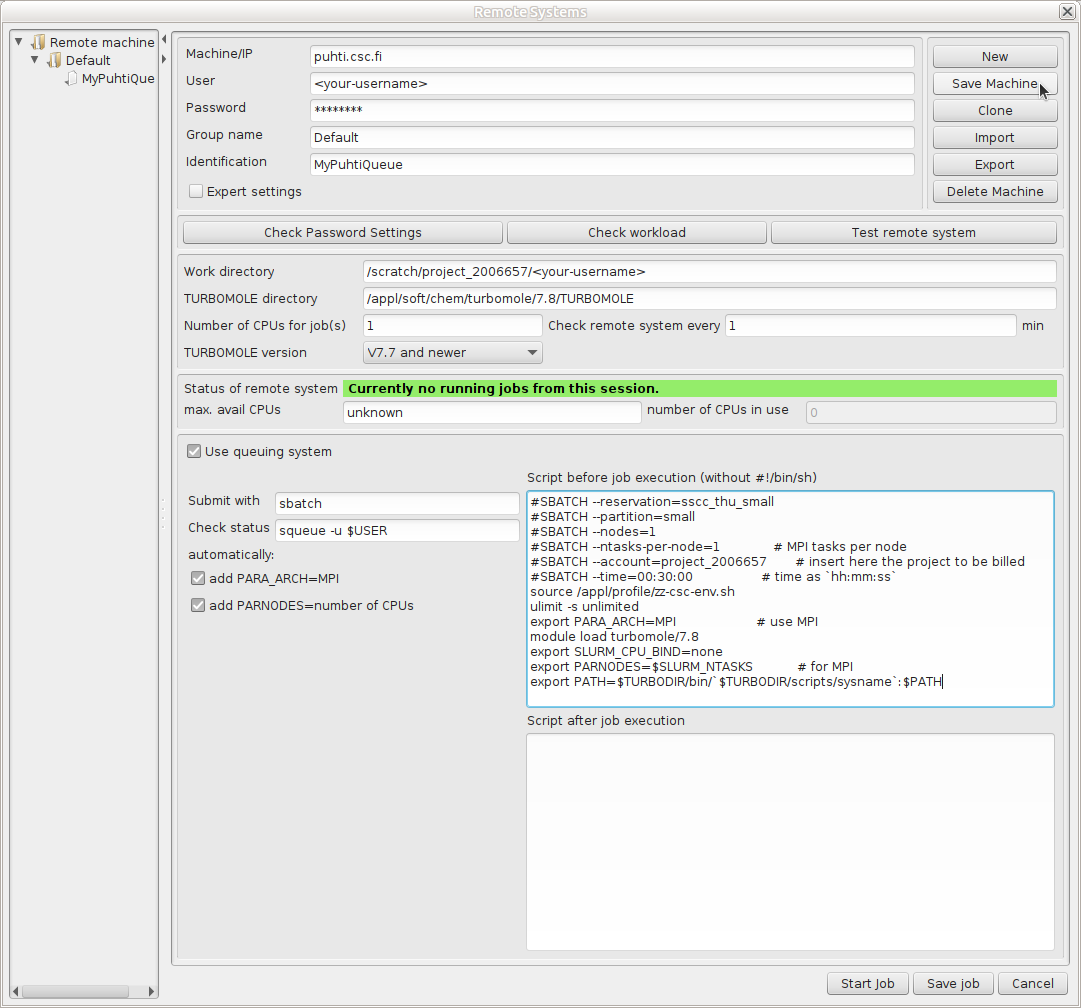
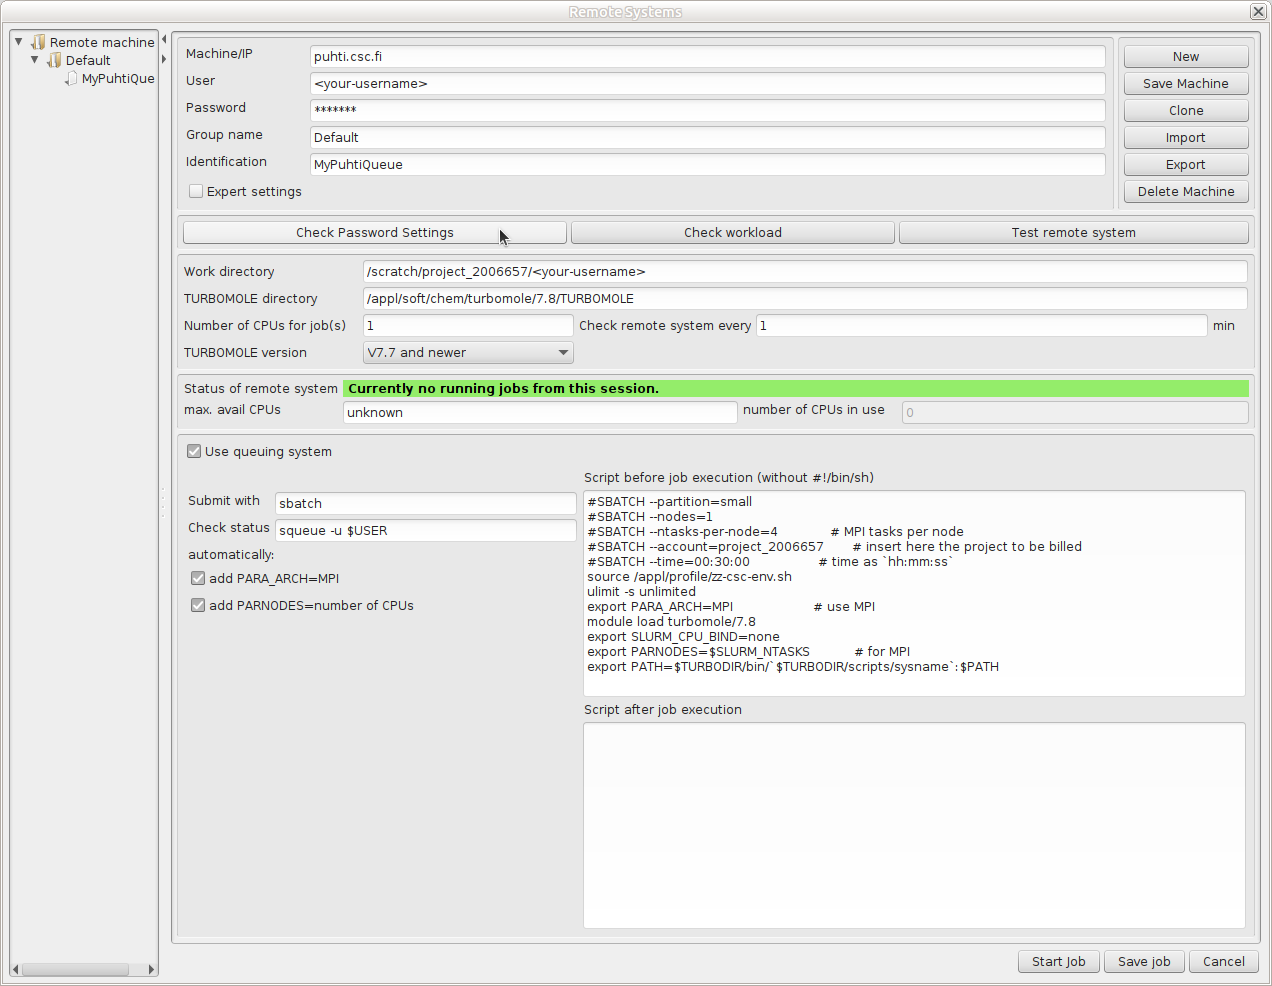
More updated screens

Changed region(s): [[0.0, 0.0, 1.0, 1.0]]

diff --git a/tutorial1/README.md b/tutorial1/README.md
@@ -26,7 +26,6 @@
 * The overall CSC supercomputer environment can be found in the [Docs CSC user guide](https://docs.csc.fi/computing/available-systems/)
   or in the [CSC Computing environment self learning course materials](https://csc-training.github.io/csc-env-eff/).
 * An option is to use `ssh` and login directly on the Puhti login node, and prepare the job with `define`.
-d, launch from icon/menu
 !["Using TmoleX network scheme"](../img/tmolex-and-puhti.svg "Using TmoleX network scheme")
 
 ## Task 1: Optimize the ground state for formaldehyde
@@ -134,7 +133,7 @@ In the new dialog, we define the remote (supercomputer) configuration:
    * etc.
    * Note, this will differ for every user and machine
    * General instructions for Puhti [docs.csc.fi/apps/tmolex/](https://docs.csc.fi/apps/tmolex/)
-   * **important** Replace `your-username` with your actual username on CSC supercomputer! Also, in the `work-directory` field.
+   * **important** Replace `your-username` with your actual username on CSC supercomputer! Also, in the *Work directory*  field.
 
 !["update"](../img/local_9.png)
 
@@ -154,7 +153,7 @@ Script before job execution:
 #SBATCH --reservation=sscc_thu_small
 #SBATCH --partition=small
 #SBATCH --nodes=1
-#SBATCH --ntasks-per-node=1             # MPI tasks per node
+#SBATCH --ntasks-per-node=4             # MPI tasks per node
 #SBATCH --account=project_2006657       # insert here the project to be billed 
 #SBATCH --time=00:30:00                 # time as `hh:mm:ss`
 source /appl/profile/zz-csc-env.sh
@@ -197,8 +196,6 @@ At the end of the geometry optimization we have reached a stationary point
 * inflection point **B**
 * a maximum **C**
 
-!["gradients"](../screens_20/gradient.png "upt")
-
 The nature of the stationary point can be deduced from the curvature (Hessian).
 A positive curvature corresponds to a minimum, a negative to a maximum.
 
@@ -209,7 +206,7 @@ In order to verify that the stationary point is a true minimum
 
 Start a frequency calculation (Reuse data by just hitting "Start new job by using current data as input" )
 
-!["Start new job from previous results"](../screens_20/14.png "upt")
+!["Start new job from previous results"](../img/local_16.png )
 
 In the "Job typ" list select "Spectra & Excited States --> IR & vibrational frequencies"
 
@@ -247,7 +244,7 @@ actual -h
 
 All calculated frequencies are positive indicating that the structure corresponds to a true minimum.
 
-!["Frequency calculation results"](../screens_20/16.png "upt")
+!["Frequency calculation results"](../img/local_19.png)
 
 The zero Kelvin minimum energy structure in a vacuum is often the starting point in solving
 chemical problems. It often represents surprisingly well the molecular properties despite
@@ -255,8 +252,6 @@ all the approximations made. What could you use this information for? How to val
 the model?
 
 This ends the tutorial.
-
-
 
 
 
